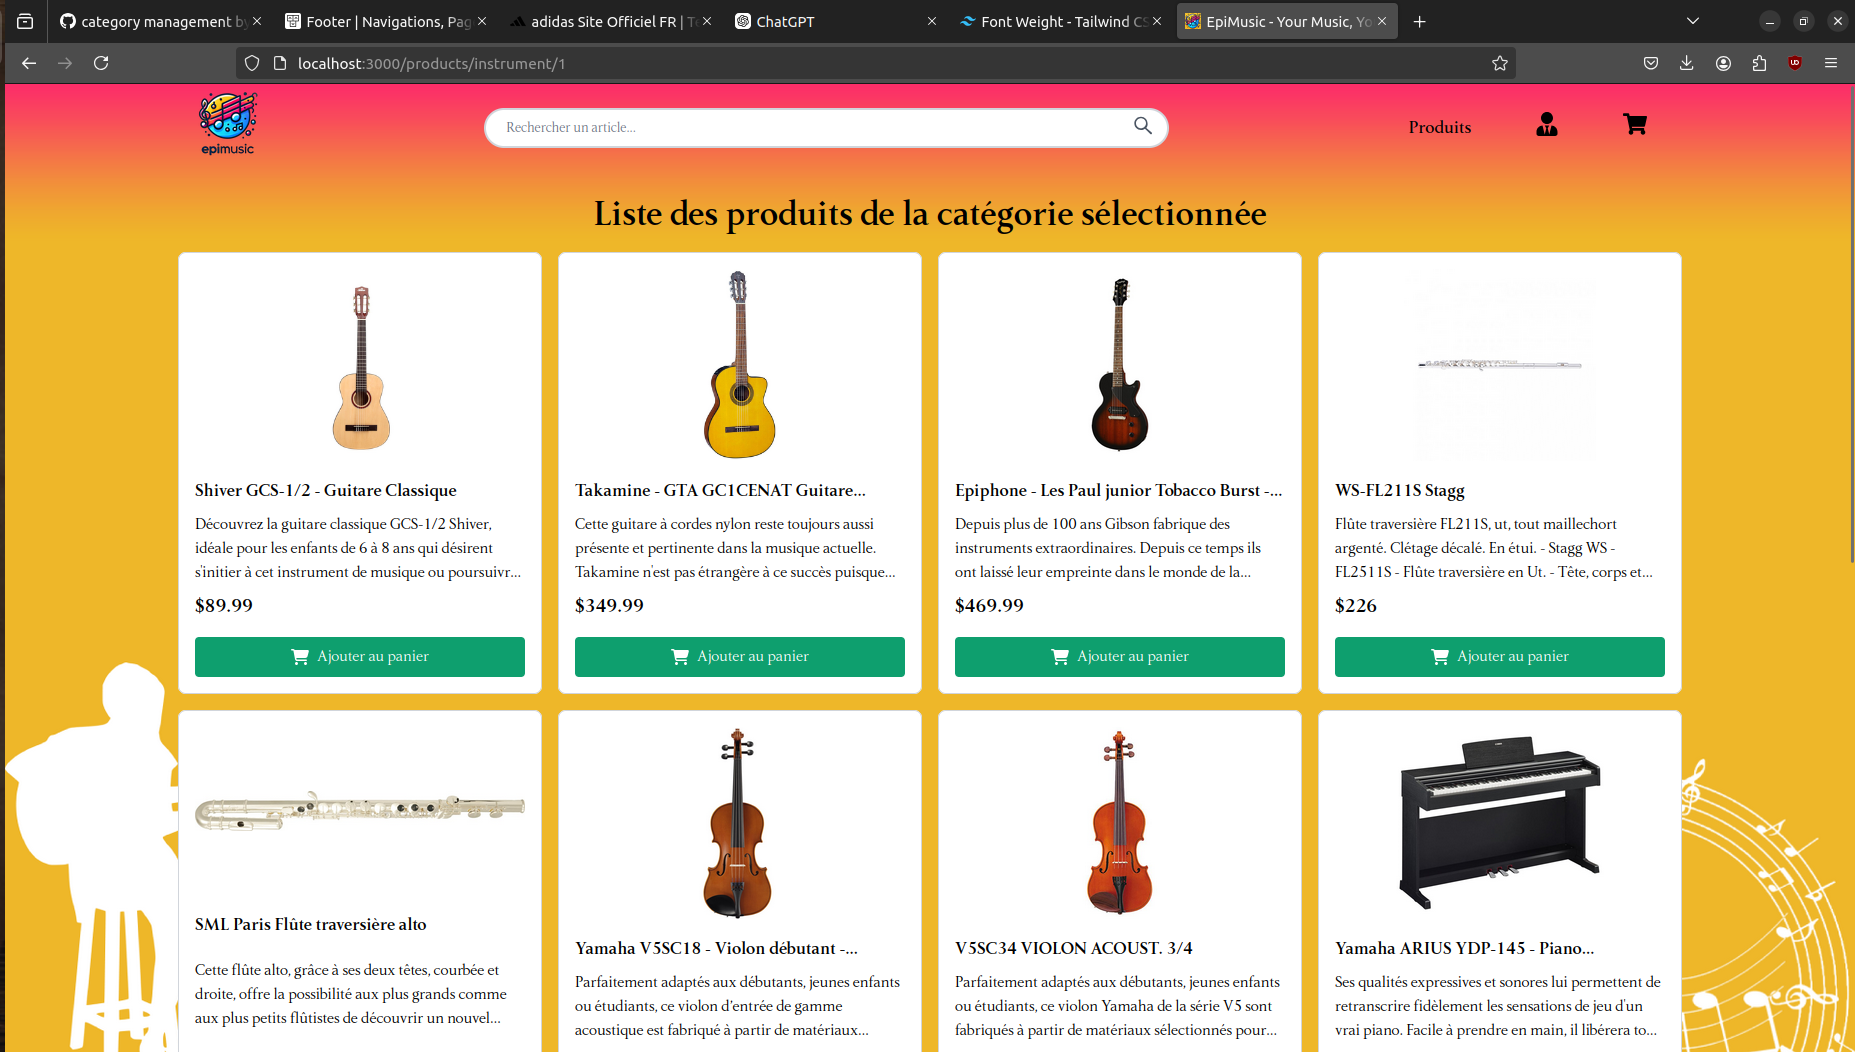
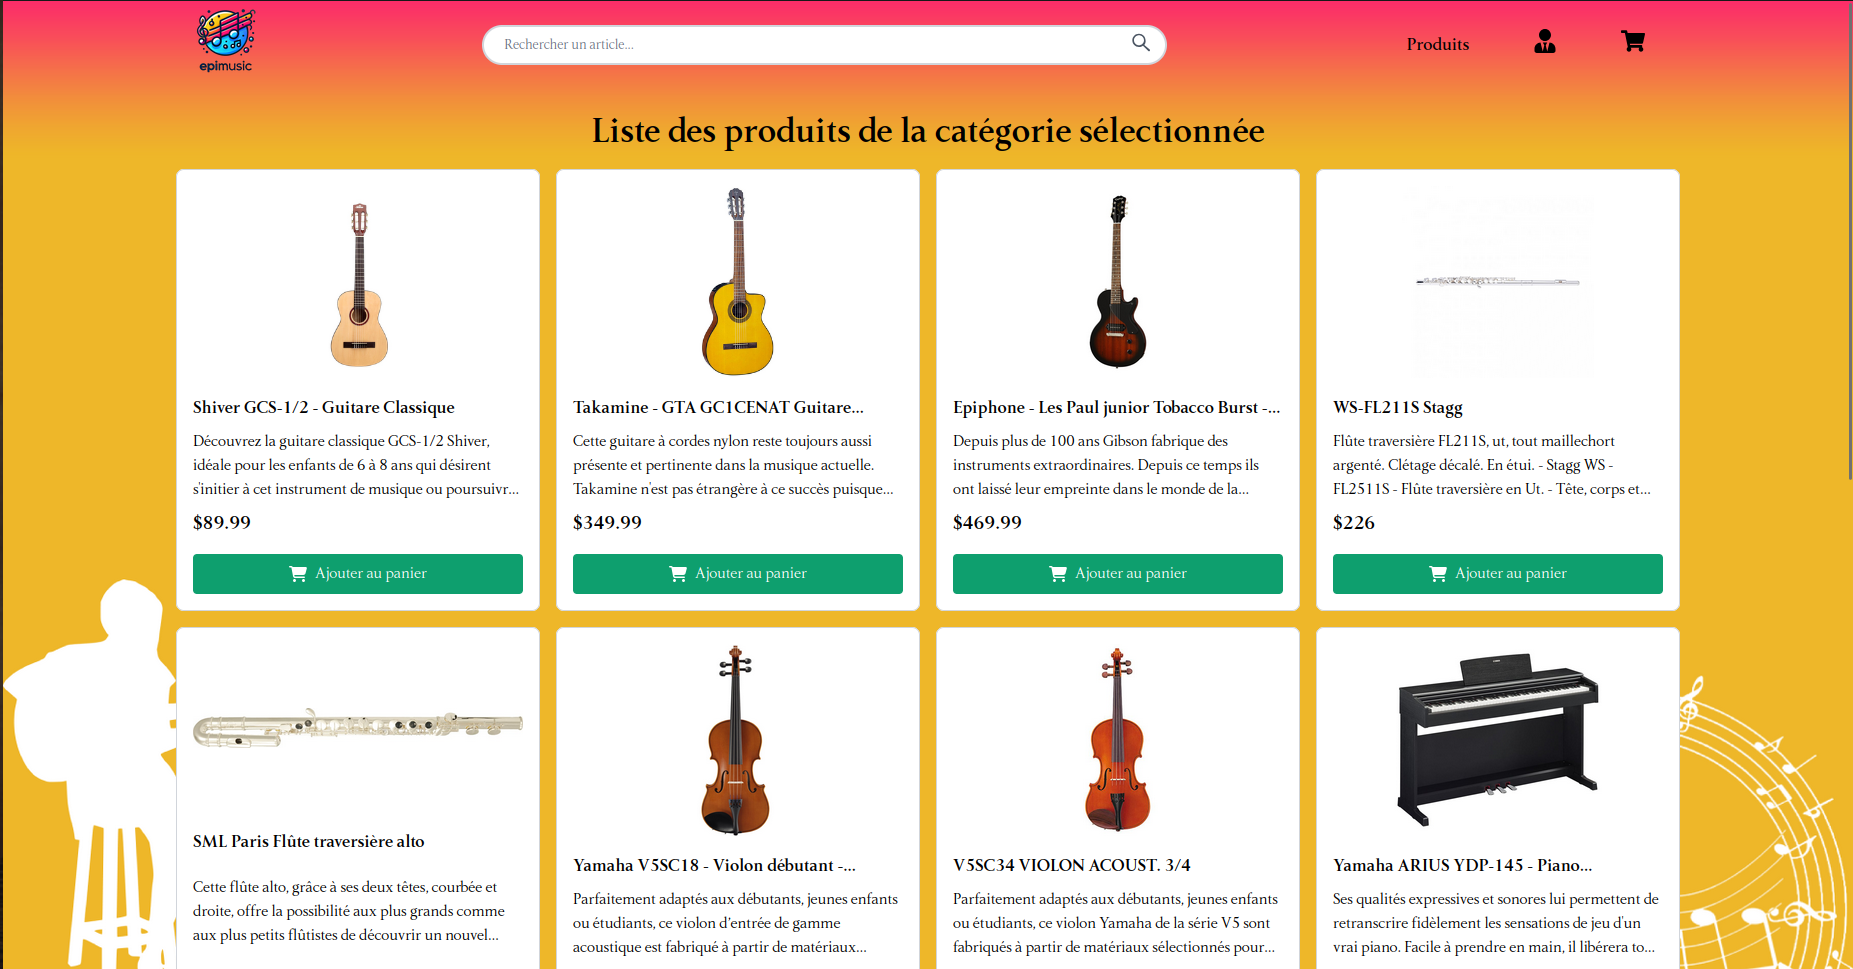
feat(): add filters on stack and ajust style

diff --git a/src/app/components/sections/AboutMeSection.tsx b/src/app/components/sections/AboutMeSection.tsx
@@ -1,34 +1,74 @@
 'use client'
 
-import React from "react";
+import React, {useEffect, useState} from "react";
 import styles from "../../styles/page.module.scss";
 import aboutSection from "../../styles/about.module.scss";
 import TechnoBox from "@/app/components/TechnoBox/TechnoBox";
 import CustomButton from "@/app/components/CustomButton/CustomButton";
+import projectSection from "@/app/styles/project.module.scss";
+
+
+const languageStack = [
+    'html',
+    'css',
+    'javascript',
+    'typescript',
+    'php',
+];
+
+const frameworkStack = [
+    'angular',
+    'symphony',
+    'nestJS',
+    'nextJS',
+    'react',
+];
+
+const otherTechnoStack = [
+    'git',
+    'github',
+    'jira',
+    'docker',
+];
+
+const descriptionText = "Je suis actuellement en formation à la Web@cadémie d'Epitech, en alternance chez Adeo, où j'ai développé une solide expertise en Angular et NestJS. Je reste ouvert à la découverte de nouveaux outils et frameworks.\n" +
+    "\n" +
+    "Ce qui me motive dans le développement, c'est la résolution de problèmes : comprendre un besoin utilisateur et construire une solution technique efficace. J'apprécie la dimension logique du code et la satisfaction de voir une fonctionnalité prendre vie.\n" +
+    "\n" +
+    "Mon alternance touchant bientôt à sa fin, je suis ouvert à de nouvelles opportunités qui me permettront de continuer à apprendre, idéalement dans des projets variés mêlant front-end et back-end.\n" +
+    "\n" +
+    "En dehors du code, je suis amateur de musique, d'escalade et de sorties culturelles. Autant d'activités qui" +
+    " nourrissent ma créativité et mon équilibre."
+
+enum TechnoFilter {
+    all = 'all',
+    languages = 'languages',
+    frameworks = 'frameworks',
+    'others' = 'others',
+}
+
 
 const AboutMeSection = () => {
 
-    const technos = [
-        'html',
-        'css',
-        'javascript',
-        'typescript',
-        'php',
-        'react',
-        'angular',
-        'docker',
-        'github',
-    ];
+    const [filter, setFilter] = useState(TechnoFilter.all);
+    const [filteredStack, setFilteredStack] = useState<string[]>([]);
 
-    const descriptionText = "Je suis actuellement en formation à la Web@cadémie d'Epitech, en alternance chez Adeo, où j'ai développé une solide expertise en Angular et NestJS. Je reste ouvert à la découverte de nouveaux outils et frameworks.\n" +
-        "\n" +
-        "Ce qui me motive dans le développement, c'est la résolution de problèmes : comprendre un besoin utilisateur et construire une solution technique efficace. J'apprécie la dimension logique du code et la satisfaction de voir une fonctionnalité prendre vie.\n" +
-        "\n" +
-        "Mon alternance touchant bientôt à sa fin, je suis ouvert à de nouvelles opportunités qui me permettront de continuer à apprendre, idéalement dans des projets variés mêlant front-end et back-end.\n" +
-        "\n" +
-        "En dehors du code, je suis amateur de musique, d'escalade et de sorties culturelles. Autant d'activités qui" +
-        " nourrissent ma créativité et mon équilibre."
-
+    useEffect(() => {
+        switch (filter) {
+            case TechnoFilter.languages:
+                setFilteredStack(languageStack);
+                break;
+            case TechnoFilter.frameworks:
+                setFilteredStack(frameworkStack);
+                break;
+            case TechnoFilter.others:
+                setFilteredStack(otherTechnoStack);
+                break;
+            case TechnoFilter.all:
+            default :
+                setFilteredStack(languageStack.concat(frameworkStack, otherTechnoStack));
+        }
+    }, [filter]);
 
     const handleDownloadCV = async () => {
         const response = await fetch('/api/download-cv', {
@@ -68,8 +108,37 @@ const AboutMeSection = () => {
             </div>
             <div className={aboutSection.container}>
                 <h2>Mes compétences</h2>
+                <div className={projectSection.filters}>
+                    <button
+                        className={`${projectSection.filterBtn} ${filter === TechnoFilter.all ? projectSection.active : ''}`}
+                        onClick={() => setFilter(TechnoFilter.all)}
+                    >
+                        Tous
+                    </button>
+                    <button
+                        className={`${projectSection.filterBtn} ${filter === TechnoFilter.languages ? projectSection.active : ''}`}
+                        onClick={() => setFilter(TechnoFilter.languages)}
+                    >
+                       Languages
+                    </button>
+                    <button
+                        className={`${projectSection.filterBtn} ${filter === TechnoFilter.frameworks ? projectSection.active : ''}`}
+                        onClick={() => setFilter(TechnoFilter.frameworks)}
+                    >
+                        Frameworks
+                    </button>
+                    <button
+                        className={`${projectSection.filterBtn} ${filter === TechnoFilter.others ? projectSection.active : ''}`}
+                        onClick={() => setFilter(TechnoFilter.others)}
+                    >
+                        Autres
+                    </button>
+                </div>
                 <div className={aboutSection.containerSkills}>
-                    {technos.map((tech, i) => (
+                    <div className={aboutSection.containerSkills}>
+
+                    </div>
+                    {filteredStack.map((tech, i) => (
                         <TechnoBox key={i} techno={tech} />
                     ))}
                 </div>

diff --git a/src/app/components/sections/FormSection.tsx b/src/app/components/sections/FormSection.tsx
@@ -122,13 +122,16 @@ const Form = () => {
                             aria-required="true"/>
                     </div>
                     <div className={form.formGroup}>
-                        <HCaptcha
-                            ref={captchaRef}
-                            sitekey={process.env.NEXT_PUBLIC_HCAPTCHA_SITE_KEY as string}
-                            onVerify={handleCaptchaVerify}
-                            languageOverride={'fr'}
-                            aria-label="Vérification anti-spam"
-                        />
+                        <div className={form.formCaptchaWrapper}>
+                            <HCaptcha
+                                ref={captchaRef}
+                                sitekey={process.env.NEXT_PUBLIC_HCAPTCHA_SITE_KEY as string}
+                                onVerify={handleCaptchaVerify}
+                                languageOverride={'fr'}
+                                aria-label="Vérification anti-spam"
+                            />
+                        </div>
+
                     </div>
                     {formMessage && (
                         <p className={form.formalert}>{formMessage}</p>

diff --git a/src/app/components/TechnoBox/TechnoBox.tsx b/src/app/components/TechnoBox/TechnoBox.tsx
@@ -1,7 +1,7 @@
 import React from "react";
 import technoStyle from "./technoBox.module.scss"
-import {FaAngular, FaCss3Alt, FaDocker, FaGithub, FaHtml5, FaPhp, FaReact} from "react-icons/fa";
-import {SiJavascript, SiTypescript} from "react-icons/si";
+import {FaAngular, FaCss3Alt, FaDocker, FaGit, FaGithub, FaHtml5, FaPhp, FaReact, FaSymfony} from "react-icons/fa";
+import {SiGit, SiJavascript, SiJira, SiNestjs, SiNextdotjs, SiTypescript} from "react-icons/si";
 
 interface TechnoBoxProps {
     techno: string
@@ -20,6 +20,11 @@ const TechnoBox: React.FC<TechnoBoxProps> = ({ techno }) => {
             case 'angular': return <FaAngular size={40} />
             case 'docker': return <FaDocker size={40} />
             case 'github': return <FaGithub size={40} />
+            case 'jira': return <SiJira size={40} />
+            case 'symphony': return <FaSymfony size={40} />
+            case 'nestJS': return <SiNestjs size={40} />
+            case 'nextJS': return <SiNextdotjs size={40} />
+            case 'git': return <SiGit size={40} />
         }
     }
 

diff --git a/src/app/layout.tsx b/src/app/layout.tsx
@@ -13,8 +13,13 @@ import "./styles/globals.css";
 // });
 
 export const metadata: Metadata = {
-  title: "Séraphin Benoit",
-  description: "Ce portfolio est un aperçu de mon parcours académique au cours de ma formation en développement web.",
+    title: "Portfolio - Séraphin Benoit",
+    description: "Ce portfolio est un aperçu de mon parcours académique au cours de ma formation en développement web.",
+    applicationName: 'Portfolio - Séraphin Benoit',
+    authors: { name: 'Séraphin Benoit', url: 'https://seraphin-benoit.vercel.app/'},
+    keywords: ['portfolio', 'developpeur', 'web', 'développeur web', 'front-end', 'back-end',
+        'epitech', 'projets', 'angular', 'nestjs', 'nextjs', 'javascript', 'typescript',
+        'php', 'react', 'web@cademie', 'jira', 'git', 'github'],
 };
 
 export default function RootLayout({

diff --git a/src/app/styles/form.module.scss b/src/app/styles/form.module.scss
@@ -141,26 +141,34 @@
     width: 95%;
     padding: 2.5vh 5vw;
 
+    label {
+      font-size: 16px;
+    }
+
+    input, textarea {
+      font-size: 16px;
+    }
+
     &Group {
       margin-bottom: 1.5vh;
     }
 
-    label {
-      font-size: 1rem;
-    }
-
-    input, textarea {
-      font-size: 0.95rem;
-    }
-
     input[type='submit'] {
       padding: 1rem 2.5rem;
-      font-size: 1rem;
+      font-size: 16px;
       width: 100%;
     }
 
     textarea {
       height: 10vh;
+    }
+
+    &CaptchaWrapper {
+      display: flex;
+      justify-content: center;
+      transform: scale(0.8);
+      transform-origin: center;
+      width: 100%;
     }
   }
 }

diff --git a/src/app/styles/hero.module.scss b/src/app/styles/hero.module.scss
@@ -19,14 +19,18 @@
   }
 
   &Text {
+    text-align: justify;
+
     &Main {
       color: var(--primary-gray);
       font-size: 2.5rem;
       padding: 10px;
       margin-bottom: 10px;
+      text-align: left;
 
       &Name {
         font-size: 3rem;
+        display: inline-block;
       }
 
     }

diff --git a/src/app/styles/about.module.scss b/src/app/styles/about.module.scss
@@ -18,7 +18,7 @@
     margin-bottom: 6vh;
 
     &Text {
-      text-align: left;
+      text-align: justify;
       font-size: 1.3rem;
       white-space: pre-line;
     }

diff --git a/src/app/components/projectModal/projectModal.module.scss b/src/app/components/projectModal/projectModal.module.scss
@@ -104,6 +104,8 @@
 .section {
   margin-bottom: 2.5rem;
 
+  text-align: justify;
+
   &:last-child {
     margin-bottom: 0;
   }
